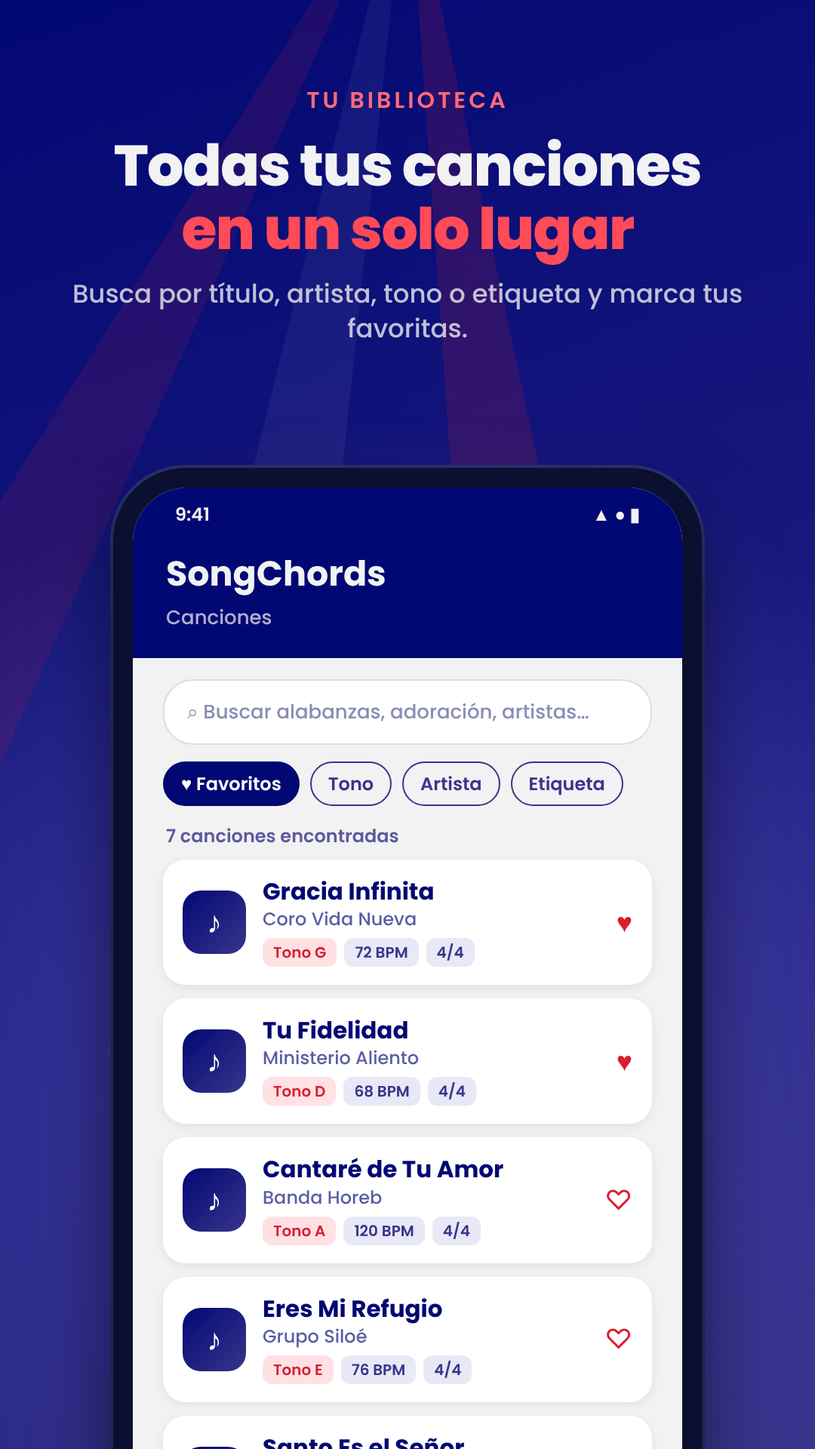
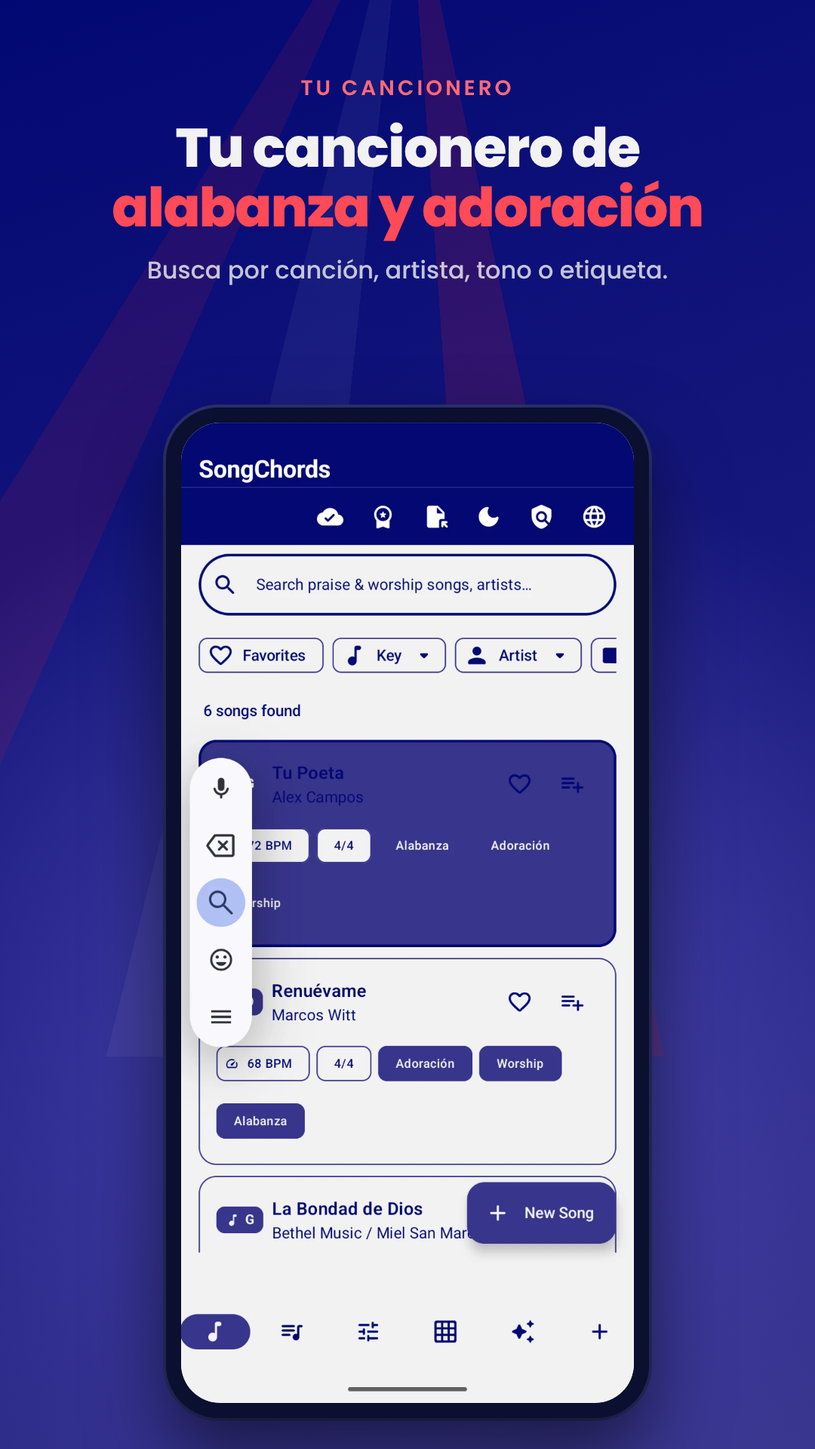
Use real app screenshots for Play Store promo images
Claude-Session: https://claude.ai/code/session_01FR3KxQvQpSmAXJCH1HGsWz

diff --git a/store-assets/play-store/screenshots/shot-4.html b/store-assets/play-store/screenshots/shot-4.html
@@ -1,54 +1,14 @@
-<!doctype html><html lang="es"><head><meta charset="utf-8"><link href="https://fonts.googleapis.com/css2?family=Poppins:wght@500;600;700;800&display=swap" rel="stylesheet"><style>
-*{margin:0;padding:0;box-sizing:border-box}
-body{font-family:Poppins,sans-serif;background:#111}
+<!doctype html><html lang="es"><head><meta charset="utf-8"><link href="https://fonts.googleapis.com/css2?family=Poppins:wght@500;600;700;800&display=swap" rel="stylesheet"><style>*{margin:0;padding:0;box-sizing:border-box}
+html,body{width:1080px;height:1920px;overflow:hidden;font-family:Poppins,sans-serif}
 .shot{position:relative;width:1080px;height:1920px;overflow:hidden;color:#F2F2F2;
- background:radial-gradient(circle at 50% 70%,#4a46b0 0%,rgba(56,53,140,0) 55%),linear-gradient(160deg,#020873 0%,#1a1a7e 55%,#38358C 100%)}
+ background:radial-gradient(circle at 50% 72%,#4a46b0 0%,rgba(56,53,140,0) 55%),linear-gradient(160deg,#020873 0%,#1a1a7e 55%,#38358C 100%)}
 .rays{position:absolute;left:50%;top:-200px;width:1400px;height:1600px;transform:translateX(-50%);
  background:conic-gradient(from 160deg at 50% 0%,transparent 0 8deg,rgba(217,30,46,.16) 8deg 16deg,transparent 16deg 26deg,rgba(255,255,255,.05) 26deg 34deg,transparent 34deg 44deg,rgba(217,30,46,.12) 44deg 52deg,transparent 52deg)}
-.head{position:absolute;top:110px;left:80px;right:80px;text-align:center}
-.tag{display:inline-block;font-size:30px;font-weight:600;letter-spacing:4px;text-transform:uppercase;color:#ff6a76;margin-bottom:22px}
-.head h1{font-size:76px;font-weight:800;line-height:1.1;letter-spacing:-1.5px}
-.head h1 em{font-style:normal;color:#ff4a58}
-.head p{font-size:34px;font-weight:500;opacity:.78;margin-top:22px;line-height:1.35}
-.phone{position:absolute;left:50%;top:620px;transform:translateX(-50%);width:780px;height:1560px;border-radius:96px;background:#0b0f30;padding:26px;
+.head{position:absolute;top:96px;left:70px;right:70px;text-align:center}
+.tag{font-size:28px;font-weight:600;letter-spacing:4px;text-transform:uppercase;color:#ff6a76;margin-bottom:18px}
+h1{font-size:72px;font-weight:800;line-height:1.1;letter-spacing:-1.5px}h1 em{font-style:normal;color:#ff4a58}
+p{font-size:32px;font-weight:500;opacity:.8;margin-top:20px}
+.phone{position:absolute;left:50%;top:540px;transform:translateX(-50%);width:640px;border-radius:70px;background:#0b0f30;padding:20px;
  box-shadow:0 50px 100px rgba(0,0,0,.55),0 0 0 4px #2b336f}
-.scr{position:relative;width:100%;height:100%;border-radius:72px;background:#F2F2F2;overflow:hidden;color:#020873;font-size:30px}
-.sb{height:70px;display:flex;justify-content:space-between;align-items:center;padding:0 56px;font-size:24px;font-weight:600}
-.top{background:#020873;color:#F2F2F2;padding:20px 44px 34px}
-.top .t{font-size:46px;font-weight:700}.top .s{font-size:26px;opacity:.72;margin-top:4px}
-.top .sb{color:#F2F2F2;padding:0 12px;margin:-20px -44px 10px;padding:0 56px}
-.body{padding:28px 40px}
-.nav{position:absolute;left:0;right:0;bottom:0;height:150px;background:#fff;border-top:2px solid #e2e2ef;display:flex;justify-content:space-around;align-items:center;padding-bottom:20px}
-.nav span{width:120px;height:64px;border-radius:32px;display:flex;align-items:center;justify-content:center;font-size:36px;color:#38358C}
-.nav span.on{background:#D91E2E;color:#fff}
-.search{background:#fff;border-radius:40px;padding:22px 30px;font-size:26px;color:#8a8db5;border:2px solid #dcdcec;display:flex;gap:16px;align-items:center}
-.chips{display:flex;gap:14px;margin:22px 0;flex-wrap:wrap}
-.chip{font-size:24px;font-weight:600;padding:10px 22px;border-radius:999px;border:2px solid #38358C;color:#38358C}
-.chip.on{background:#020873;color:#fff;border-color:#020873}
-.found{font-size:24px;font-weight:600;color:#38358C;opacity:.8;margin:6px 4px 14px}
-.item{background:#fff;border-radius:30px;padding:24px 26px;margin-bottom:18px;display:flex;gap:22px;align-items:center;box-shadow:0 4px 14px rgba(2,8,115,.07)}
-.av{width:84px;height:84px;border-radius:24px;background:linear-gradient(135deg,#020873,#38358C);color:#fff;display:flex;align-items:center;justify-content:center;font-size:40px;flex:none}
-.item .n{font-size:31px;font-weight:700;line-height:1.2}.item .a{font-size:24px;opacity:.65}
-.item .m{display:flex;gap:10px;margin-top:8px}.item .m i{font-style:normal;font-size:20px;font-weight:600;padding:4px 14px;border-radius:12px;background:#e8e8f6;color:#38358C}
-.item .m i.k{background:#ffe1e4;color:#D91E2E}
-.heart{margin-left:auto;font-size:36px;color:#D91E2E}
-.keyrow{display:flex;gap:12px;padding:22px 40px;border-bottom:2px solid #dcdcec;align-items:center;background:#fff}
-.k{font-size:24px;font-weight:700;padding:12px 20px;border-radius:20px;background:#e3e3f3;color:#38358C}
-.k.on{background:#D91E2E;color:#fff;font-size:30px;padding:10px 30px}
-.sec{font-size:24px;font-weight:700;color:#38358C;letter-spacing:3px;margin:24px 0 12px;text-transform:uppercase}
-.ln{margin-bottom:20px}.c{color:#D91E2E;font-weight:700;font-size:29px;white-space:pre;display:block;line-height:1.1}
-.l{white-space:pre;font-weight:500;font-size:33px;line-height:1.2}
-.callout{position:absolute;background:#fff;color:#020873;border-radius:36px;box-shadow:0 30px 60px rgba(0,0,0,.4);padding:26px 30px}
-.sd{position:absolute;left:0;right:0;bottom:0;height:480px;background:linear-gradient(transparent,rgba(242,242,242,1) 30%)}
-html,body{width:1080px;height:1920px;overflow:hidden}</style></head><body><section class="shot"><div class="rays"></div><div class="head"><div class="tag">Afinador</div><h1>Afina tu instrumento<br><em>en segundos</em></h1><p>Afinador por micrófono para guitarra y bajo, con tono de referencia.</p></div>
-<div class="phone"><div class="scr"><div class="top"><div class="sb"><span>9:41</span><span>▲ ● ▮</span></div><div class="t">Afinador Interactivo</div><div class="s">de Instrumento</div></div><div class="body">
- <div class="chips"><span class="chip on">Guitarra (6 Cuerdas)</span><span class="chip">Bajo (4)</span><span class="chip">Bajo (5)</span></div>
- <div style="font-size:24px;opacity:.75;margin:6px 0 14px">🎙 Escuchando la frecuencia del instrumento en vivo…</div>
- <div style="background:#fff;border-radius:40px;padding:30px 20px 40px;text-align:center;box-shadow:0 4px 14px rgba(2,8,115,.07)"><svg viewBox="0 0 600 360" width="100%"><path d="M40 320 A260 260 0 0 1 560 320" fill="none" stroke="#e3e3f3" stroke-width="2"/><line x1="43.9" y1="274.9" x2="98.1" y2="284.4" stroke="#38358C" stroke-width="6" stroke-linecap="round"/><line x1="52.7" y1="239.7" x2="81.3" y2="248.9" stroke="#38358C" stroke-width="3" stroke-linecap="round"/><line x1="66.3" y1="206.0" x2="93.3" y2="219.2" stroke="#38358C" stroke-width="3" stroke-linecap="round"/><line x1="84.5" y1="174.6" x2="109.3" y2="191.4" stroke="#38358C" stroke-width="3" stroke-linecap="round"/><line x1="106.8" y1="146.0" x2="129.1" y2="166.1" stroke="#38358C" stroke-width="3" stroke-linecap="round"/><line x1="132.9" y1="120.8" x2="168.2" y2="163.0" stroke="#38358C" stroke-width="6" stroke-linecap="round"/><line x1="162.2" y1="99.5" x2="178.1" y2="124.9" stroke="#38358C" stroke-width="3" stroke-linecap="round"/><line x1="194.2" y1="82.5" x2="206.5" y2="109.9" stroke="#38358C" stroke-width="3" stroke-linecap="round"/><line x1="228.3" y1="70.1" x2="236.6" y2="98.9" stroke="#38358C" stroke-width="3" stroke-linecap="round"/><line x1="263.8" y1="62.5" x2="268.0" y2="92.2" stroke="#2bb673" stroke-width="3" stroke-linecap="round"/><line x1="300.0" y1="60.0" x2="300.0" y2="115.0" stroke="#2bb673" stroke-width="6" stroke-linecap="round"/><line x1="336.2" y1="62.5" x2="332.0" y2="92.2" stroke="#2bb673" stroke-width="3" stroke-linecap="round"/><line x1="371.7" y1="70.1" x2="363.4" y2="98.9" stroke="#38358C" stroke-width="3" stroke-linecap="round"/><line x1="405.8" y1="82.5" x2="393.5" y2="109.9" stroke="#38358C" stroke-width="3" stroke-linecap="round"/><line x1="437.8" y1="99.5" x2="421.9" y2="124.9" stroke="#38358C" stroke-width="3" stroke-linecap="round"/><line x1="467.1" y1="120.8" x2="431.8" y2="163.0" stroke="#38358C" stroke-width="6" stroke-linecap="round"/><line x1="493.2" y1="146.0" x2="470.9" y2="166.1" stroke="#38358C" stroke-width="3" stroke-linecap="round"/><line x1="515.5" y1="174.6" x2="490.7" y2="191.4" stroke="#38358C" stroke-width="3" stroke-linecap="round"/><line x1="533.7" y1="206.0" x2="506.7" y2="219.2" stroke="#38358C" stroke-width="3" stroke-linecap="round"/><line x1="547.3" y1="239.7" x2="518.7" y2="248.9" stroke="#38358C" stroke-width="3" stroke-linecap="round"/><line x1="556.1" y1="274.9" x2="501.9" y2="284.4" stroke="#38358C" stroke-width="6" stroke-linecap="round"/>
-<line x1="300" y1="320" x2="313.1" y2="85.4" stroke="#D91E2E" stroke-width="8" stroke-linecap="round"/><circle cx="300" cy="320" r="18" fill="#D91E2E"/></svg>
- <div style="font-size:150px;font-weight:800;line-height:1;margin-top:-20px">B</div>
- <div style="display:inline-block;margin:14px 0;font-size:30px;font-weight:700;color:#fff;background:#2bb673;padding:10px 34px;border-radius:999px">✓ Afinado</div>
- <div style="font-size:28px;font-weight:600;color:#38358C">+1.2 cents</div>
- <div style="font-size:24px;opacity:.65;margin-top:8px">Objetivo: 246.94 Hz · Detectado: 247.11 Hz</div></div>
- <div style="display:flex;justify-content:space-between;margin:34px 10px"><span style="width:84px;height:84px;border-radius:42px;display:flex;align-items:center;justify-content:center;font-size:32px;font-weight:700;background:#e3e3f3;color:#38358C">E</span><span style="width:84px;height:84px;border-radius:42px;display:flex;align-items:center;justify-content:center;font-size:32px;font-weight:700;background:#e3e3f3;color:#38358C">A</span><span style="width:84px;height:84px;border-radius:42px;display:flex;align-items:center;justify-content:center;font-size:32px;font-weight:700;background:#e3e3f3;color:#38358C">D</span><span style="width:84px;height:84px;border-radius:42px;display:flex;align-items:center;justify-content:center;font-size:32px;font-weight:700;background:#e3e3f3;color:#38358C">G</span><span style="width:84px;height:84px;border-radius:42px;display:flex;align-items:center;justify-content:center;font-size:32px;font-weight:700;background:#D91E2E;color:#fff">B</span><span style="width:84px;height:84px;border-radius:42px;display:flex;align-items:center;justify-content:center;font-size:32px;font-weight:700;background:#e3e3f3;color:#38358C">e</span></div>
- <div style="text-align:center;background:#020873;color:#fff;border-radius:999px;padding:24px;font-size:28px;font-weight:600">🔊 Reproducir Tono de Referencia</div></div><div class="nav"><span class="">♪</span><span class="">☰</span><span class="on">◎</span><span class="">▦</span></div></div></div></section></body></html>
+.scr{width:600px;height:1299px;border-radius:52px;overflow:hidden;background:#F2F2F2}
+.scr img{width:600px;display:block;margin-top:-35px}</style></head><body><section class="shot"><div class="rays"></div><div class="head"><div class="tag">Setlists</div><h1>Prepara tu servicio<br><em>con listas organizadas</em></h1><p>Crea listas para cada culto y ensayo.</p></div><div class="phone"><div class="scr"><img src="reales/setlists.png"></div></div></section></body></html>

diff --git a/store-assets/play-store/screenshots/shot-3.html b/store-assets/play-store/screenshots/shot-3.html
@@ -1,48 +1,14 @@
-<!doctype html><html lang="es"><head><meta charset="utf-8"><link href="https://fonts.googleapis.com/css2?family=Poppins:wght@500;600;700;800&display=swap" rel="stylesheet"><style>
-*{margin:0;padding:0;box-sizing:border-box}
-body{font-family:Poppins,sans-serif;background:#111}
+<!doctype html><html lang="es"><head><meta charset="utf-8"><link href="https://fonts.googleapis.com/css2?family=Poppins:wght@500;600;700;800&display=swap" rel="stylesheet"><style>*{margin:0;padding:0;box-sizing:border-box}
+html,body{width:1080px;height:1920px;overflow:hidden;font-family:Poppins,sans-serif}
 .shot{position:relative;width:1080px;height:1920px;overflow:hidden;color:#F2F2F2;
- background:radial-gradient(circle at 50% 70%,#4a46b0 0%,rgba(56,53,140,0) 55%),linear-gradient(160deg,#020873 0%,#1a1a7e 55%,#38358C 100%)}
+ background:radial-gradient(circle at 50% 72%,#4a46b0 0%,rgba(56,53,140,0) 55%),linear-gradient(160deg,#020873 0%,#1a1a7e 55%,#38358C 100%)}
 .rays{position:absolute;left:50%;top:-200px;width:1400px;height:1600px;transform:translateX(-50%);
  background:conic-gradient(from 160deg at 50% 0%,transparent 0 8deg,rgba(217,30,46,.16) 8deg 16deg,transparent 16deg 26deg,rgba(255,255,255,.05) 26deg 34deg,transparent 34deg 44deg,rgba(217,30,46,.12) 44deg 52deg,transparent 52deg)}
-.head{position:absolute;top:110px;left:80px;right:80px;text-align:center}
-.tag{display:inline-block;font-size:30px;font-weight:600;letter-spacing:4px;text-transform:uppercase;color:#ff6a76;margin-bottom:22px}
-.head h1{font-size:76px;font-weight:800;line-height:1.1;letter-spacing:-1.5px}
-.head h1 em{font-style:normal;color:#ff4a58}
-.head p{font-size:34px;font-weight:500;opacity:.78;margin-top:22px;line-height:1.35}
-.phone{position:absolute;left:50%;top:620px;transform:translateX(-50%);width:780px;height:1560px;border-radius:96px;background:#0b0f30;padding:26px;
+.head{position:absolute;top:96px;left:70px;right:70px;text-align:center}
+.tag{font-size:28px;font-weight:600;letter-spacing:4px;text-transform:uppercase;color:#ff6a76;margin-bottom:18px}
+h1{font-size:72px;font-weight:800;line-height:1.1;letter-spacing:-1.5px}h1 em{font-style:normal;color:#ff4a58}
+p{font-size:32px;font-weight:500;opacity:.8;margin-top:20px}
+.phone{position:absolute;left:50%;top:540px;transform:translateX(-50%);width:640px;border-radius:70px;background:#0b0f30;padding:20px;
  box-shadow:0 50px 100px rgba(0,0,0,.55),0 0 0 4px #2b336f}
-.scr{position:relative;width:100%;height:100%;border-radius:72px;background:#F2F2F2;overflow:hidden;color:#020873;font-size:30px}
-.sb{height:70px;display:flex;justify-content:space-between;align-items:center;padding:0 56px;font-size:24px;font-weight:600}
-.top{background:#020873;color:#F2F2F2;padding:20px 44px 34px}
-.top .t{font-size:46px;font-weight:700}.top .s{font-size:26px;opacity:.72;margin-top:4px}
-.top .sb{color:#F2F2F2;padding:0 12px;margin:-20px -44px 10px;padding:0 56px}
-.body{padding:28px 40px}
-.nav{position:absolute;left:0;right:0;bottom:0;height:150px;background:#fff;border-top:2px solid #e2e2ef;display:flex;justify-content:space-around;align-items:center;padding-bottom:20px}
-.nav span{width:120px;height:64px;border-radius:32px;display:flex;align-items:center;justify-content:center;font-size:36px;color:#38358C}
-.nav span.on{background:#D91E2E;color:#fff}
-.search{background:#fff;border-radius:40px;padding:22px 30px;font-size:26px;color:#8a8db5;border:2px solid #dcdcec;display:flex;gap:16px;align-items:center}
-.chips{display:flex;gap:14px;margin:22px 0;flex-wrap:wrap}
-.chip{font-size:24px;font-weight:600;padding:10px 22px;border-radius:999px;border:2px solid #38358C;color:#38358C}
-.chip.on{background:#020873;color:#fff;border-color:#020873}
-.found{font-size:24px;font-weight:600;color:#38358C;opacity:.8;margin:6px 4px 14px}
-.item{background:#fff;border-radius:30px;padding:24px 26px;margin-bottom:18px;display:flex;gap:22px;align-items:center;box-shadow:0 4px 14px rgba(2,8,115,.07)}
-.av{width:84px;height:84px;border-radius:24px;background:linear-gradient(135deg,#020873,#38358C);color:#fff;display:flex;align-items:center;justify-content:center;font-size:40px;flex:none}
-.item .n{font-size:31px;font-weight:700;line-height:1.2}.item .a{font-size:24px;opacity:.65}
-.item .m{display:flex;gap:10px;margin-top:8px}.item .m i{font-style:normal;font-size:20px;font-weight:600;padding:4px 14px;border-radius:12px;background:#e8e8f6;color:#38358C}
-.item .m i.k{background:#ffe1e4;color:#D91E2E}
-.heart{margin-left:auto;font-size:36px;color:#D91E2E}
-.keyrow{display:flex;gap:12px;padding:22px 40px;border-bottom:2px solid #dcdcec;align-items:center;background:#fff}
-.k{font-size:24px;font-weight:700;padding:12px 20px;border-radius:20px;background:#e3e3f3;color:#38358C}
-.k.on{background:#D91E2E;color:#fff;font-size:30px;padding:10px 30px}
-.sec{font-size:24px;font-weight:700;color:#38358C;letter-spacing:3px;margin:24px 0 12px;text-transform:uppercase}
-.ln{margin-bottom:20px}.c{color:#D91E2E;font-weight:700;font-size:29px;white-space:pre;display:block;line-height:1.1}
-.l{white-space:pre;font-weight:500;font-size:33px;line-height:1.2}
-.callout{position:absolute;background:#fff;color:#020873;border-radius:36px;box-shadow:0 30px 60px rgba(0,0,0,.4);padding:26px 30px}
-.sd{position:absolute;left:0;right:0;bottom:0;height:480px;background:linear-gradient(transparent,rgba(242,242,242,1) 30%)}
-html,body{width:1080px;height:1920px;overflow:hidden}</style></head><body><section class="shot"><div class="rays"></div><div class="head"><div class="tag">Guitarra y piano</div><h1>Aprende cada acorde<br><em>en guitarra y piano</em></h1><p>Diagramas claros con la digitación de cada acorde.</p></div>
-<div class="phone"><div class="scr"><div class="top"><div class="sb"><span>9:41</span><span>▲ ● ▮</span></div><div class="t">Biblioteca de Acordes</div><div class="s">Diagramas de Acordes y Digitación</div></div><div class="body"><div style="display:flex;background:#e3e3f3;border-radius:28px;padding:8px;margin:10px 0 26px"><span style="flex:1;text-align:center;padding:14px;border-radius:22px;font-size:26px;font-weight:600;background:#020873;color:#fff">Ambos</span><span style="flex:1;text-align:center;padding:14px;font-size:26px;font-weight:600">Guitarra</span><span style="flex:1;text-align:center;padding:14px;font-size:26px;font-weight:600">Piano</span></div>
- <div style="text-align:center"><div style="font-size:100px;font-weight:800;color:#D91E2E;line-height:1">A</div><div style="font-size:28px;font-weight:600;opacity:.65">La Mayor · A – C# – E</div></div>
- <div style="background:#fff;border-radius:36px;padding:30px;margin:24px 0;display:flex;justify-content:center;box-shadow:0 4px 14px rgba(2,8,115,.07)"><svg viewBox="0 0 100 112" width="280"><g stroke="#020873" stroke-width="1.6"><line x1="10" y1="12" x2="90" y2="12" stroke-width="4"/><line x1="10" y1="34" x2="90" y2="34"/><line x1="10" y1="56" x2="90" y2="56"/><line x1="10" y1="78" x2="90" y2="78"/><line x1="10" y1="100" x2="90" y2="100"/><line x1="10" y1="12" x2="10" y2="100"/><line x1="26" y1="12" x2="26" y2="100"/><line x1="42" y1="12" x2="42" y2="100"/><line x1="58" y1="12" x2="58" y2="100"/><line x1="74" y1="12" x2="74" y2="100"/><line x1="90" y1="12" x2="90" y2="100"/></g><g fill="#D91E2E"><circle cx="42" cy="45" r="7"/><circle cx="58" cy="45" r="7"/><circle cx="74" cy="45" r="7"/></g><g fill="none" stroke="#020873" stroke-width="1.8"><circle cx="26" cy="4" r="3.5"/><circle cx="90" cy="4" r="3.5"/></g><text x="10" y="8" font-size="10" text-anchor="middle" fill="#020873" font-weight="700">×</text></svg></div>
- <div style="background:#fff;border-radius:36px;padding:30px;box-shadow:0 4px 14px rgba(2,8,115,.07)"><svg viewBox="0 0 616 200" width="100%"><rect x="0" y="0" width="42" height="200" rx="6" fill="#fff" stroke="#c9c9de" stroke-width="2"/><rect x="44" y="0" width="42" height="200" rx="6" fill="#fff" stroke="#c9c9de" stroke-width="2"/><rect x="88" y="0" width="42" height="200" rx="6" fill="#fff" stroke="#c9c9de" stroke-width="2"/><rect x="132" y="0" width="42" height="200" rx="6" fill="#fff" stroke="#c9c9de" stroke-width="2"/><rect x="176" y="0" width="42" height="200" rx="6" fill="#fff" stroke="#c9c9de" stroke-width="2"/><rect x="220" y="0" width="42" height="200" rx="6" fill="#ffccd1" stroke="#c9c9de" stroke-width="2"/><rect x="264" y="0" width="42" height="200" rx="6" fill="#fff" stroke="#c9c9de" stroke-width="2"/><rect x="308" y="0" width="42" height="200" rx="6" fill="#fff" stroke="#c9c9de" stroke-width="2"/><rect x="352" y="0" width="42" height="200" rx="6" fill="#fff" stroke="#c9c9de" stroke-width="2"/><rect x="396" y="0" width="42" height="200" rx="6" fill="#ffccd1" stroke="#c9c9de" stroke-width="2"/><rect x="440" y="0" width="42" height="200" rx="6" fill="#fff" stroke="#c9c9de" stroke-width="2"/><rect x="484" y="0" width="42" height="200" rx="6" fill="#fff" stroke="#c9c9de" stroke-width="2"/><rect x="528" y="0" width="42" height="200" rx="6" fill="#fff" stroke="#c9c9de" stroke-width="2"/><rect x="572" y="0" width="42" height="200" rx="6" fill="#fff" stroke="#c9c9de" stroke-width="2"/><rect x="30" y="0" width="28" height="122" rx="4" fill="#020873"/><rect x="74" y="0" width="28" height="122" rx="4" fill="#020873"/><rect x="162" y="0" width="28" height="122" rx="4" fill="#020873"/><rect x="206" y="0" width="28" height="122" rx="4" fill="#020873"/><rect x="250" y="0" width="28" height="122" rx="4" fill="#020873"/><rect x="338" y="0" width="28" height="122" rx="4" fill="#D91E2E"/><rect x="382" y="0" width="28" height="122" rx="4" fill="#020873"/><rect x="470" y="0" width="28" height="122" rx="4" fill="#020873"/><rect x="514" y="0" width="28" height="122" rx="4" fill="#020873"/><rect x="558" y="0" width="28" height="122" rx="4" fill="#020873"/><g font-size="22" font-weight="700" fill="#D91E2E" text-anchor="middle"><text x="241" y="186">A</text><text x="417" y="186">E</text><text x="352" y="110" fill="#fff">C#</text></g></svg></div>
- <div class="chips" style="margin-top:28px"><span class="chip on">Mayor</span><span class="chip">Menor</span><span class="chip">7</span><span class="chip">maj7</span><span class="chip">sus4</span><span class="chip">add9</span></div></div><div class="nav"><span class="">♪</span><span class="">☰</span><span class="">◎</span><span class="on">▦</span></div></div></div></section></body></html>
+.scr{width:600px;height:1299px;border-radius:52px;overflow:hidden;background:#F2F2F2}
+.scr img{width:600px;display:block;margin-top:-35px}</style></head><body><section class="shot"><div class="rays"></div><div class="head"><div class="tag">Biblioteca de acordes</div><h1>Aprende cada acorde<br><em>con su digitación</em></h1><p>12 tonos y 10 tipos de acorde con diagramas claros.</p></div><div class="phone"><div class="scr"><img src="reales/biblioteca.png"></div></div></section></body></html>

diff --git a/store-assets/play-store/screenshots/shot-1.html b/store-assets/play-store/screenshots/shot-1.html
@@ -1,44 +1,14 @@
-<!doctype html><html lang="es"><head><meta charset="utf-8"><link href="https://fonts.googleapis.com/css2?family=Poppins:wght@500;600;700;800&display=swap" rel="stylesheet"><style>
-*{margin:0;padding:0;box-sizing:border-box}
-body{font-family:Poppins,sans-serif;background:#111}
+<!doctype html><html lang="es"><head><meta charset="utf-8"><link href="https://fonts.googleapis.com/css2?family=Poppins:wght@500;600;700;800&display=swap" rel="stylesheet"><style>*{margin:0;padding:0;box-sizing:border-box}
+html,body{width:1080px;height:1920px;overflow:hidden;font-family:Poppins,sans-serif}
 .shot{position:relative;width:1080px;height:1920px;overflow:hidden;color:#F2F2F2;
- background:radial-gradient(circle at 50% 70%,#4a46b0 0%,rgba(56,53,140,0) 55%),linear-gradient(160deg,#020873 0%,#1a1a7e 55%,#38358C 100%)}
+ background:radial-gradient(circle at 50% 72%,#4a46b0 0%,rgba(56,53,140,0) 55%),linear-gradient(160deg,#020873 0%,#1a1a7e 55%,#38358C 100%)}
 .rays{position:absolute;left:50%;top:-200px;width:1400px;height:1600px;transform:translateX(-50%);
  background:conic-gradient(from 160deg at 50% 0%,transparent 0 8deg,rgba(217,30,46,.16) 8deg 16deg,transparent 16deg 26deg,rgba(255,255,255,.05) 26deg 34deg,transparent 34deg 44deg,rgba(217,30,46,.12) 44deg 52deg,transparent 52deg)}
-.head{position:absolute;top:110px;left:80px;right:80px;text-align:center}
-.tag{display:inline-block;font-size:30px;font-weight:600;letter-spacing:4px;text-transform:uppercase;color:#ff6a76;margin-bottom:22px}
-.head h1{font-size:76px;font-weight:800;line-height:1.1;letter-spacing:-1.5px}
-.head h1 em{font-style:normal;color:#ff4a58}
-.head p{font-size:34px;font-weight:500;opacity:.78;margin-top:22px;line-height:1.35}
-.phone{position:absolute;left:50%;top:620px;transform:translateX(-50%);width:780px;height:1560px;border-radius:96px;background:#0b0f30;padding:26px;
+.head{position:absolute;top:96px;left:70px;right:70px;text-align:center}
+.tag{font-size:28px;font-weight:600;letter-spacing:4px;text-transform:uppercase;color:#ff6a76;margin-bottom:18px}
+h1{font-size:72px;font-weight:800;line-height:1.1;letter-spacing:-1.5px}h1 em{font-style:normal;color:#ff4a58}
+p{font-size:32px;font-weight:500;opacity:.8;margin-top:20px}
+.phone{position:absolute;left:50%;top:540px;transform:translateX(-50%);width:640px;border-radius:70px;background:#0b0f30;padding:20px;
  box-shadow:0 50px 100px rgba(0,0,0,.55),0 0 0 4px #2b336f}
-.scr{position:relative;width:100%;height:100%;border-radius:72px;background:#F2F2F2;overflow:hidden;color:#020873;font-size:30px}
-.sb{height:70px;display:flex;justify-content:space-between;align-items:center;padding:0 56px;font-size:24px;font-weight:600}
-.top{background:#020873;color:#F2F2F2;padding:20px 44px 34px}
-.top .t{font-size:46px;font-weight:700}.top .s{font-size:26px;opacity:.72;margin-top:4px}
-.top .sb{color:#F2F2F2;padding:0 12px;margin:-20px -44px 10px;padding:0 56px}
-.body{padding:28px 40px}
-.nav{position:absolute;left:0;right:0;bottom:0;height:150px;background:#fff;border-top:2px solid #e2e2ef;display:flex;justify-content:space-around;align-items:center;padding-bottom:20px}
-.nav span{width:120px;height:64px;border-radius:32px;display:flex;align-items:center;justify-content:center;font-size:36px;color:#38358C}
-.nav span.on{background:#D91E2E;color:#fff}
-.search{background:#fff;border-radius:40px;padding:22px 30px;font-size:26px;color:#8a8db5;border:2px solid #dcdcec;display:flex;gap:16px;align-items:center}
-.chips{display:flex;gap:14px;margin:22px 0;flex-wrap:wrap}
-.chip{font-size:24px;font-weight:600;padding:10px 22px;border-radius:999px;border:2px solid #38358C;color:#38358C}
-.chip.on{background:#020873;color:#fff;border-color:#020873}
-.found{font-size:24px;font-weight:600;color:#38358C;opacity:.8;margin:6px 4px 14px}
-.item{background:#fff;border-radius:30px;padding:24px 26px;margin-bottom:18px;display:flex;gap:22px;align-items:center;box-shadow:0 4px 14px rgba(2,8,115,.07)}
-.av{width:84px;height:84px;border-radius:24px;background:linear-gradient(135deg,#020873,#38358C);color:#fff;display:flex;align-items:center;justify-content:center;font-size:40px;flex:none}
-.item .n{font-size:31px;font-weight:700;line-height:1.2}.item .a{font-size:24px;opacity:.65}
-.item .m{display:flex;gap:10px;margin-top:8px}.item .m i{font-style:normal;font-size:20px;font-weight:600;padding:4px 14px;border-radius:12px;background:#e8e8f6;color:#38358C}
-.item .m i.k{background:#ffe1e4;color:#D91E2E}
-.heart{margin-left:auto;font-size:36px;color:#D91E2E}
-.keyrow{display:flex;gap:12px;padding:22px 40px;border-bottom:2px solid #dcdcec;align-items:center;background:#fff}
-.k{font-size:24px;font-weight:700;padding:12px 20px;border-radius:20px;background:#e3e3f3;color:#38358C}
-.k.on{background:#D91E2E;color:#fff;font-size:30px;padding:10px 30px}
-.sec{font-size:24px;font-weight:700;color:#38358C;letter-spacing:3px;margin:24px 0 12px;text-transform:uppercase}
-.ln{margin-bottom:20px}.c{color:#D91E2E;font-weight:700;font-size:29px;white-space:pre;display:block;line-height:1.1}
-.l{white-space:pre;font-weight:500;font-size:33px;line-height:1.2}
-.callout{position:absolute;background:#fff;color:#020873;border-radius:36px;box-shadow:0 30px 60px rgba(0,0,0,.4);padding:26px 30px}
-.sd{position:absolute;left:0;right:0;bottom:0;height:480px;background:linear-gradient(transparent,rgba(242,242,242,1) 30%)}
-html,body{width:1080px;height:1920px;overflow:hidden}</style></head><body><section class="shot"><div class="rays"></div><div class="head"><div class="tag">Tu biblioteca</div><h1>Todas tus canciones<br><em>en un solo lugar</em></h1><p>Busca por título, artista, tono o etiqueta y marca tus favoritas.</p></div>
-<div class="phone"><div class="scr"><div class="top"><div class="sb"><span>9:41</span><span>▲ ● ▮</span></div><div class="t">SongChords</div><div class="s">Canciones</div></div><div class="body"><div class="search">⌕ Buscar alabanzas, adoración, artistas…</div><div class="chips"><span class="chip on">♥ Favoritos</span><span class="chip">Tono</span><span class="chip">Artista</span><span class="chip">Etiqueta</span></div><div class="found">7 canciones encontradas</div><div class="item"><div class="av">♪</div><div><div class="n">Gracia Infinita</div><div class="a">Coro Vida Nueva</div><div class="m"><i class="k">Tono G</i><i>72 BPM</i><i>4/4</i></div></div><div class="heart">♥</div></div><div class="item"><div class="av">♪</div><div><div class="n">Tu Fidelidad</div><div class="a">Ministerio Aliento</div><div class="m"><i class="k">Tono D</i><i>68 BPM</i><i>4/4</i></div></div><div class="heart">♥</div></div><div class="item"><div class="av">♪</div><div><div class="n">Cantaré de Tu Amor</div><div class="a">Banda Horeb</div><div class="m"><i class="k">Tono A</i><i>120 BPM</i><i>4/4</i></div></div><div class="heart">♡</div></div><div class="item"><div class="av">♪</div><div><div class="n">Eres Mi Refugio</div><div class="a">Grupo Siloé</div><div class="m"><i class="k">Tono E</i><i>76 BPM</i><i>4/4</i></div></div><div class="heart">♡</div></div><div class="item"><div class="av">♪</div><div><div class="n">Santo Es el Señor</div><div class="a">Adoración Viva</div><div class="m"><i class="k">Tono C</i><i>84 BPM</i><i>4/4</i></div></div><div class="heart">♥</div></div><div class="item"><div class="av">♪</div><div><div class="n">Luz del Mundo</div><div class="a">Coro Vida Nueva</div><div class="m"><i class="k">Tono Bb</i><i>96 BPM</i><i>4/4</i></div></div><div class="heart">♡</div></div><div class="item"><div class="av">♪</div><div><div class="n">Mi Roca Firme</div><div class="a">Ministerio Aliento</div><div class="m"><i class="k">Tono F</i><i>70 BPM</i><i>4/4</i></div></div><div class="heart">♡</div></div></div><div class="nav"><span class="on">♪</span><span class="">☰</span><span class="">◎</span><span class="">▦</span></div></div></div></section></body></html>
+.scr{width:600px;height:1299px;border-radius:52px;overflow:hidden;background:#F2F2F2}
+.scr img{width:600px;display:block;margin-top:-35px}</style></head><body><section class="shot"><div class="rays"></div><div class="head"><div class="tag">Tu cancionero</div><h1>Tu cancionero de<br><em>alabanza y adoración</em></h1><p>Busca por canción, artista, tono o etiqueta.</p></div><div class="phone"><div class="scr"><img src="reales/canciones.png"></div></div></section></body></html>

diff --git a/store-assets/play-store/screenshots/shot-2.html b/store-assets/play-store/screenshots/shot-2.html
@@ -1,44 +1,14 @@
-<!doctype html><html lang="es"><head><meta charset="utf-8"><link href="https://fonts.googleapis.com/css2?family=Poppins:wght@500;600;700;800&display=swap" rel="stylesheet"><style>
-*{margin:0;padding:0;box-sizing:border-box}
-body{font-family:Poppins,sans-serif;background:#111}
+<!doctype html><html lang="es"><head><meta charset="utf-8"><link href="https://fonts.googleapis.com/css2?family=Poppins:wght@500;600;700;800&display=swap" rel="stylesheet"><style>*{margin:0;padding:0;box-sizing:border-box}
+html,body{width:1080px;height:1920px;overflow:hidden;font-family:Poppins,sans-serif}
 .shot{position:relative;width:1080px;height:1920px;overflow:hidden;color:#F2F2F2;
- background:radial-gradient(circle at 50% 70%,#4a46b0 0%,rgba(56,53,140,0) 55%),linear-gradient(160deg,#020873 0%,#1a1a7e 55%,#38358C 100%)}
+ background:radial-gradient(circle at 50% 72%,#4a46b0 0%,rgba(56,53,140,0) 55%),linear-gradient(160deg,#020873 0%,#1a1a7e 55%,#38358C 100%)}
 .rays{position:absolute;left:50%;top:-200px;width:1400px;height:1600px;transform:translateX(-50%);
  background:conic-gradient(from 160deg at 50% 0%,transparent 0 8deg,rgba(217,30,46,.16) 8deg 16deg,transparent 16deg 26deg,rgba(255,255,255,.05) 26deg 34deg,transparent 34deg 44deg,rgba(217,30,46,.12) 44deg 52deg,transparent 52deg)}
-.head{position:absolute;top:110px;left:80px;right:80px;text-align:center}
-.tag{display:inline-block;font-size:30px;font-weight:600;letter-spacing:4px;text-transform:uppercase;color:#ff6a76;margin-bottom:22px}
-.head h1{font-size:76px;font-weight:800;line-height:1.1;letter-spacing:-1.5px}
-.head h1 em{font-style:normal;color:#ff4a58}
-.head p{font-size:34px;font-weight:500;opacity:.78;margin-top:22px;line-height:1.35}
-.phone{position:absolute;left:50%;top:620px;transform:translateX(-50%);width:780px;height:1560px;border-radius:96px;background:#0b0f30;padding:26px;
+.head{position:absolute;top:96px;left:70px;right:70px;text-align:center}
+.tag{font-size:28px;font-weight:600;letter-spacing:4px;text-transform:uppercase;color:#ff6a76;margin-bottom:18px}
+h1{font-size:72px;font-weight:800;line-height:1.1;letter-spacing:-1.5px}h1 em{font-style:normal;color:#ff4a58}
+p{font-size:32px;font-weight:500;opacity:.8;margin-top:20px}
+.phone{position:absolute;left:50%;top:540px;transform:translateX(-50%);width:640px;border-radius:70px;background:#0b0f30;padding:20px;
  box-shadow:0 50px 100px rgba(0,0,0,.55),0 0 0 4px #2b336f}
-.scr{position:relative;width:100%;height:100%;border-radius:72px;background:#F2F2F2;overflow:hidden;color:#020873;font-size:30px}
-.sb{height:70px;display:flex;justify-content:space-between;align-items:center;padding:0 56px;font-size:24px;font-weight:600}
-.top{background:#020873;color:#F2F2F2;padding:20px 44px 34px}
-.top .t{font-size:46px;font-weight:700}.top .s{font-size:26px;opacity:.72;margin-top:4px}
-.top .sb{color:#F2F2F2;padding:0 12px;margin:-20px -44px 10px;padding:0 56px}
-.body{padding:28px 40px}
-.nav{position:absolute;left:0;right:0;bottom:0;height:150px;background:#fff;border-top:2px solid #e2e2ef;display:flex;justify-content:space-around;align-items:center;padding-bottom:20px}
-.nav span{width:120px;height:64px;border-radius:32px;display:flex;align-items:center;justify-content:center;font-size:36px;color:#38358C}
-.nav span.on{background:#D91E2E;color:#fff}
-.search{background:#fff;border-radius:40px;padding:22px 30px;font-size:26px;color:#8a8db5;border:2px solid #dcdcec;display:flex;gap:16px;align-items:center}
-.chips{display:flex;gap:14px;margin:22px 0;flex-wrap:wrap}
-.chip{font-size:24px;font-weight:600;padding:10px 22px;border-radius:999px;border:2px solid #38358C;color:#38358C}
-.chip.on{background:#020873;color:#fff;border-color:#020873}
-.found{font-size:24px;font-weight:600;color:#38358C;opacity:.8;margin:6px 4px 14px}
-.item{background:#fff;border-radius:30px;padding:24px 26px;margin-bottom:18px;display:flex;gap:22px;align-items:center;box-shadow:0 4px 14px rgba(2,8,115,.07)}
-.av{width:84px;height:84px;border-radius:24px;background:linear-gradient(135deg,#020873,#38358C);color:#fff;display:flex;align-items:center;justify-content:center;font-size:40px;flex:none}
-.item .n{font-size:31px;font-weight:700;line-height:1.2}.item .a{font-size:24px;opacity:.65}
-.item .m{display:flex;gap:10px;margin-top:8px}.item .m i{font-style:normal;font-size:20px;font-weight:600;padding:4px 14px;border-radius:12px;background:#e8e8f6;color:#38358C}
-.item .m i.k{background:#ffe1e4;color:#D91E2E}
-.heart{margin-left:auto;font-size:36px;color:#D91E2E}
-.keyrow{display:flex;gap:12px;padding:22px 40px;border-bottom:2px solid #dcdcec;align-items:center;background:#fff}
-.k{font-size:24px;font-weight:700;padding:12px 20px;border-radius:20px;background:#e3e3f3;color:#38358C}
-.k.on{background:#D91E2E;color:#fff;font-size:30px;padding:10px 30px}
-.sec{font-size:24px;font-weight:700;color:#38358C;letter-spacing:3px;margin:24px 0 12px;text-transform:uppercase}
-.ln{margin-bottom:20px}.c{color:#D91E2E;font-weight:700;font-size:29px;white-space:pre;display:block;line-height:1.1}
-.l{white-space:pre;font-weight:500;font-size:33px;line-height:1.2}
-.callout{position:absolute;background:#fff;color:#020873;border-radius:36px;box-shadow:0 30px 60px rgba(0,0,0,.4);padding:26px 30px}
-.sd{position:absolute;left:0;right:0;bottom:0;height:480px;background:linear-gradient(transparent,rgba(242,242,242,1) 30%)}
-html,body{width:1080px;height:1920px;overflow:hidden}</style></head><body><section class="shot"><div class="rays"></div><div class="head"><div class="tag">Transposición</div><h1>Cambia el tono<br><em>con un toque</em></h1><p>Sube o baja medio tono o un tono completo; los acordes se ajustan solos.</p></div>
-<div class="phone"><div class="scr"><div class="top"><div class="sb"><span>9:41</span><span>▲ ● ▮</span></div><div class="t">Gracia Infinita</div><div class="s">Tono original G → <b>A</b> · 72 BPM · 4/4</div></div><div class="keyrow"><span class="k">−1</span><span class="k">−½</span><span class="k on">A</span><span class="k">+½</span><span class="k">+1</span><span class="k" style="margin-left:auto">↺</span></div><div class="body"><div class="sec">Verso</div><div class="ln"><span class="c">A             E</span><span class="l">Gracia infinita me alcanzó</span></div><div class="ln"><span class="c">F#m          D</span><span class="l">cuando perdido estaba yo</span></div><div class="ln"><span class="c">A          E/G#</span><span class="l">tu amor mi vida transformó</span></div><div class="ln"><span class="c">F#m   D      E</span><span class="l">y hoy canto a ti, Señor</span></div><div class="sec">Coro</div><div class="ln"><span class="c">D          A</span><span class="l">Cantaré, cantaré</span></div><div class="ln"><span class="c">Bm7          E</span><span class="l">de tu gracia sin final</span></div><div class="ln"><span class="c">D       A/C#</span><span class="l">Cantaré, cantaré</span></div><div class="ln"><span class="c">Bm7    E      A</span><span class="l">tu bondad sin igual</span></div></div><div class="nav"><span class="on">♪</span><span class="">☰</span><span class="">◎</span><span class="">▦</span></div></div></div><div class="callout" style="right:60px;top:1240px;transform:rotate(4deg);font-size:30px;font-weight:700;text-align:center"><div style="font-size:24px;opacity:.6;font-weight:600">Transpuesto</div><span style="color:#38358C">G</span> → <span style="color:#D91E2E;font-size:56px">A</span><div style="font-size:22px;opacity:.6;font-weight:600">+1 tono</div></div></section></body></html>
+.scr{width:600px;height:1299px;border-radius:52px;overflow:hidden;background:#F2F2F2}
+.scr img{width:600px;display:block;margin-top:-35px}</style></head><body><section class="shot"><div class="rays"></div><div class="head"><div class="tag">Afinador</div><h1>Afina tu guitarra<br><em>en segundos</em></h1><p>Afinador por micrófono, cuerda por cuerda.</p></div><div class="phone"><div class="scr"><img src="reales/afinador.png"></div></div></section></body></html>

diff --git a/store-assets/play-store/screenshots/shot-5.html b/store-assets/play-store/screenshots/shot-5.html
@@ -1,45 +1,14 @@
-<!doctype html><html lang="es"><head><meta charset="utf-8"><link href="https://fonts.googleapis.com/css2?family=Poppins:wght@500;600;700;800&display=swap" rel="stylesheet"><style>
-*{margin:0;padding:0;box-sizing:border-box}
-body{font-family:Poppins,sans-serif;background:#111}
+<!doctype html><html lang="es"><head><meta charset="utf-8"><link href="https://fonts.googleapis.com/css2?family=Poppins:wght@500;600;700;800&display=swap" rel="stylesheet"><style>*{margin:0;padding:0;box-sizing:border-box}
+html,body{width:1080px;height:1920px;overflow:hidden;font-family:Poppins,sans-serif}
 .shot{position:relative;width:1080px;height:1920px;overflow:hidden;color:#F2F2F2;
- background:radial-gradient(circle at 50% 70%,#4a46b0 0%,rgba(56,53,140,0) 55%),linear-gradient(160deg,#020873 0%,#1a1a7e 55%,#38358C 100%)}
+ background:radial-gradient(circle at 50% 72%,#4a46b0 0%,rgba(56,53,140,0) 55%),linear-gradient(160deg,#020873 0%,#1a1a7e 55%,#38358C 100%)}
 .rays{position:absolute;left:50%;top:-200px;width:1400px;height:1600px;transform:translateX(-50%);
  background:conic-gradient(from 160deg at 50% 0%,transparent 0 8deg,rgba(217,30,46,.16) 8deg 16deg,transparent 16deg 26deg,rgba(255,255,255,.05) 26deg 34deg,transparent 34deg 44deg,rgba(217,30,46,.12) 44deg 52deg,transparent 52deg)}
-.head{position:absolute;top:110px;left:80px;right:80px;text-align:center}
-.tag{display:inline-block;font-size:30px;font-weight:600;letter-spacing:4px;text-transform:uppercase;color:#ff6a76;margin-bottom:22px}
-.head h1{font-size:76px;font-weight:800;line-height:1.1;letter-spacing:-1.5px}
-.head h1 em{font-style:normal;color:#ff4a58}
-.head p{font-size:34px;font-weight:500;opacity:.78;margin-top:22px;line-height:1.35}
-.phone{position:absolute;left:50%;top:620px;transform:translateX(-50%);width:780px;height:1560px;border-radius:96px;background:#0b0f30;padding:26px;
+.head{position:absolute;top:96px;left:70px;right:70px;text-align:center}
+.tag{font-size:28px;font-weight:600;letter-spacing:4px;text-transform:uppercase;color:#ff6a76;margin-bottom:18px}
+h1{font-size:72px;font-weight:800;line-height:1.1;letter-spacing:-1.5px}h1 em{font-style:normal;color:#ff4a58}
+p{font-size:32px;font-weight:500;opacity:.8;margin-top:20px}
+.phone{position:absolute;left:50%;top:540px;transform:translateX(-50%);width:640px;border-radius:70px;background:#0b0f30;padding:20px;
  box-shadow:0 50px 100px rgba(0,0,0,.55),0 0 0 4px #2b336f}
-.scr{position:relative;width:100%;height:100%;border-radius:72px;background:#F2F2F2;overflow:hidden;color:#020873;font-size:30px}
-.sb{height:70px;display:flex;justify-content:space-between;align-items:center;padding:0 56px;font-size:24px;font-weight:600}
-.top{background:#020873;color:#F2F2F2;padding:20px 44px 34px}
-.top .t{font-size:46px;font-weight:700}.top .s{font-size:26px;opacity:.72;margin-top:4px}
-.top .sb{color:#F2F2F2;padding:0 12px;margin:-20px -44px 10px;padding:0 56px}
-.body{padding:28px 40px}
-.nav{position:absolute;left:0;right:0;bottom:0;height:150px;background:#fff;border-top:2px solid #e2e2ef;display:flex;justify-content:space-around;align-items:center;padding-bottom:20px}
-.nav span{width:120px;height:64px;border-radius:32px;display:flex;align-items:center;justify-content:center;font-size:36px;color:#38358C}
-.nav span.on{background:#D91E2E;color:#fff}
-.search{background:#fff;border-radius:40px;padding:22px 30px;font-size:26px;color:#8a8db5;border:2px solid #dcdcec;display:flex;gap:16px;align-items:center}
-.chips{display:flex;gap:14px;margin:22px 0;flex-wrap:wrap}
-.chip{font-size:24px;font-weight:600;padding:10px 22px;border-radius:999px;border:2px solid #38358C;color:#38358C}
-.chip.on{background:#020873;color:#fff;border-color:#020873}
-.found{font-size:24px;font-weight:600;color:#38358C;opacity:.8;margin:6px 4px 14px}
-.item{background:#fff;border-radius:30px;padding:24px 26px;margin-bottom:18px;display:flex;gap:22px;align-items:center;box-shadow:0 4px 14px rgba(2,8,115,.07)}
-.av{width:84px;height:84px;border-radius:24px;background:linear-gradient(135deg,#020873,#38358C);color:#fff;display:flex;align-items:center;justify-content:center;font-size:40px;flex:none}
-.item .n{font-size:31px;font-weight:700;line-height:1.2}.item .a{font-size:24px;opacity:.65}
-.item .m{display:flex;gap:10px;margin-top:8px}.item .m i{font-style:normal;font-size:20px;font-weight:600;padding:4px 14px;border-radius:12px;background:#e8e8f6;color:#38358C}
-.item .m i.k{background:#ffe1e4;color:#D91E2E}
-.heart{margin-left:auto;font-size:36px;color:#D91E2E}
-.keyrow{display:flex;gap:12px;padding:22px 40px;border-bottom:2px solid #dcdcec;align-items:center;background:#fff}
-.k{font-size:24px;font-weight:700;padding:12px 20px;border-radius:20px;background:#e3e3f3;color:#38358C}
-.k.on{background:#D91E2E;color:#fff;font-size:30px;padding:10px 30px}
-.sec{font-size:24px;font-weight:700;color:#38358C;letter-spacing:3px;margin:24px 0 12px;text-transform:uppercase}
-.ln{margin-bottom:20px}.c{color:#D91E2E;font-weight:700;font-size:29px;white-space:pre;display:block;line-height:1.1}
-.l{white-space:pre;font-weight:500;font-size:33px;line-height:1.2}
-.callout{position:absolute;background:#fff;color:#020873;border-radius:36px;box-shadow:0 30px 60px rgba(0,0,0,.4);padding:26px 30px}
-.sd{position:absolute;left:0;right:0;bottom:0;height:480px;background:linear-gradient(transparent,rgba(242,242,242,1) 30%)}
-html,body{width:1080px;height:1920px;overflow:hidden}</style></head><body><section class="shot"><div class="rays"></div><div class="head"><div class="tag">Setlists</div><h1>Prepara tu servicio<br><em>en orden y en tono</em></h1><p>Arma listas para cada ensayo o reunión y guarda el tono de cada canción.</p></div>
-<div class="phone"><div class="scr"><div class="top"><div class="sb"><span>9:41</span><span>▲ ● ▮</span></div><div class="t">Domingo · Servicio</div><div class="s">5 canciones · Equipo de alabanza</div></div><div class="body">
- <div class="chips"><span class="chip on">＋ Agregar canción</span><span class="chip">⇩ Exportar PDF</span></div><div class="item"><div class="av" style="font-size:34px;font-weight:700">1</div><div><div class="n">Santo Es el Señor</div><div class="m"><i>Original C</i><i class="k">Tono lista D</i></div></div><div class="heart" style="color:#38358C;opacity:.5">≡</div></div><div class="item"><div class="av" style="font-size:34px;font-weight:700">2</div><div><div class="n">Cantaré de Tu Amor</div><div class="m"><i>Original A</i><i class="k">Tono lista A</i></div></div><div class="heart" style="color:#38358C;opacity:.5">≡</div></div><div class="item"><div class="av" style="font-size:34px;font-weight:700">3</div><div><div class="n">Gracia Infinita</div><div class="m"><i>Original G</i><i class="k">Tono lista A</i></div></div><div class="heart" style="color:#38358C;opacity:.5">≡</div></div><div class="item"><div class="av" style="font-size:34px;font-weight:700">4</div><div><div class="n">Tu Fidelidad</div><div class="m"><i>Original D</i><i class="k">Tono lista C</i></div></div><div class="heart" style="color:#38358C;opacity:.5">≡</div></div><div class="item"><div class="av" style="font-size:34px;font-weight:700">5</div><div><div class="n">Eres Mi Refugio</div><div class="m"><i>Original E</i><i class="k">Tono lista E</i></div></div><div class="heart" style="color:#38358C;opacity:.5">≡</div></div></div><div class="nav"><span class="">♪</span><span class="on">☰</span><span class="">◎</span><span class="">▦</span></div></div></div></section></body></html>
+.scr{width:600px;height:1299px;border-radius:52px;overflow:hidden;background:#F2F2F2}
+.scr img{width:600px;display:block;margin-top:-35px}</style></head><body><section class="shot"><div class="rays"></div><div class="head"><div class="tag">Editor</div><h1>Escribe tus propias<br><em>canciones con acordes</em></h1><p>Acordes entre corchetes y vista previa al instante.</p></div><div class="phone"><div class="scr"><img src="reales/editor.png"></div></div></section></body></html>
